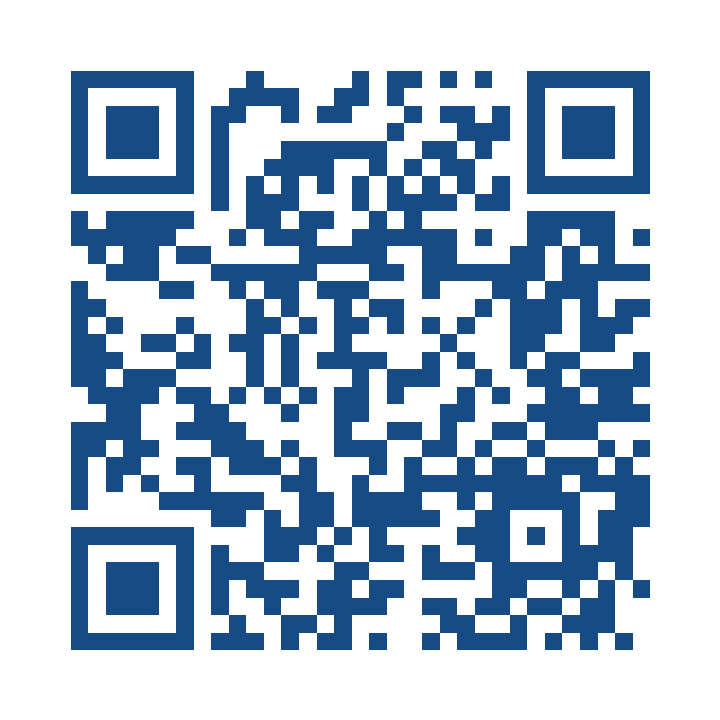
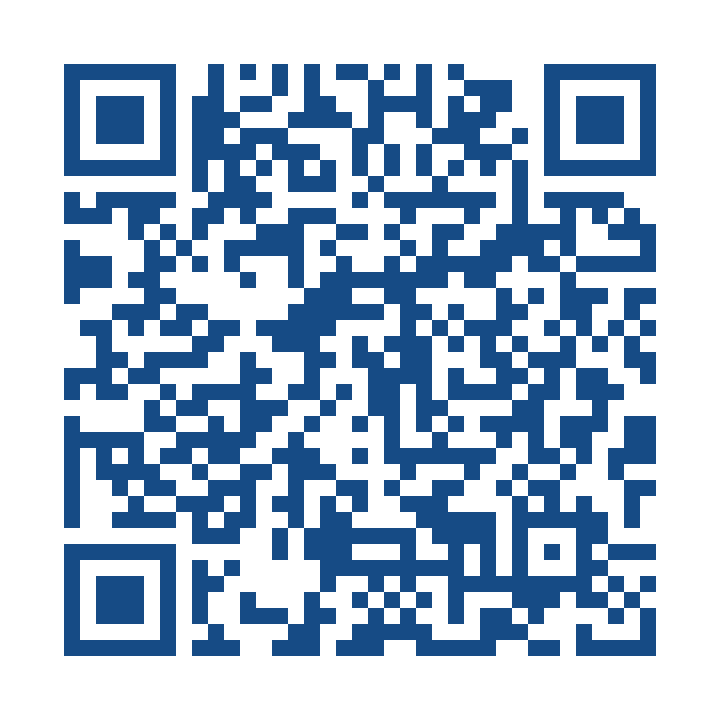
Add files via upload

diff --git a/Rebecca-Chien/index.html b/Rebecca-Chien/index.html
@@ -145,7 +145,7 @@ for(const [id,url] of Object.entries(destinations)){const element=document.getEl
 </script><script>
 function showQR(title,file,help='請使用對應 App 掃碼 / Scan with the relevant app'){document.getElementById('qrTitle').textContent=title;document.getElementById('qrImage').src='assets/'+file+'.jpg';document.getElementById('qrHelp').textContent=help;document.getElementById('qr').showModal()}
 document.getElementById('qr').addEventListener('click',e=>{if(e.target===e.currentTarget)e.currentTarget.close()});
-</script><button class="floating-share" type="button" onclick="offerShareImage()" aria-label="出示 QR Code 或分享名片 / Show QR code or share card"><svg class="share-symbol" width="25" height="25" viewBox="0 0 28 28" fill="none" aria-hidden="true"><path d="M10 12L19 7M10 16L19 21" stroke="currentColor" stroke-width="1.7" stroke-linecap="round"/><circle cx="7" cy="14" r="3.5" stroke="currentColor" stroke-width="1.7"/><circle cx="22" cy="5.5" r="3.5" stroke="currentColor" stroke-width="1.7"/><circle cx="22" cy="22.5" r="3.5" stroke="currentColor" stroke-width="1.7"/></svg><span class="floating-label">分享<span lang="en">Share</span></span></button><dialog id="share-image-dialog" aria-label="分享名片 / Share Card"><button class="share-dismiss" type="button" onclick="this.closest('dialog').close()" aria-label="關閉 / Close">×</button><img class="designed-share-image" src="assets/rebecca-share-card.png" alt="Rebecca Chien 名片 QR Code / Scan for Rebecca’s card"><div class="dialog-actions"><button class="primary" onclick="shareCard()">分享名片 QR Code<span lang="en">Share QR Card</span></button><button class="primary copy-link" onclick="shareCardLink()">分享名片連結<span lang="en">Share Card Link</span></button></div><p id="share-feedback" role="status"></p><a class="save-image" href="assets/rebecca-share-card.png" download="Rebecca-GDT-business-card.png">儲存圖片 / Save Image</a></dialog><dialog id="copy-link-dialog"><h2>名片連結 / Card Link</h2><p>請複製下方網址 / Copy the URL below</p><input id="card-link-input" aria-label="名片連結 / Card URL" readonly><p><button class="close" onclick="this.closest('dialog').close()">關閉 / Close</button></p></dialog><script>const cardPublicURL='https://gdtsyd.github.io/business-card/rebecca/';
+</script><button class="floating-share" type="button" onclick="offerShareImage()" aria-label="出示 QR Code 或分享名片 / Show QR code or share card"><svg class="share-symbol" width="25" height="25" viewBox="0 0 28 28" fill="none" aria-hidden="true"><path d="M10 12L19 7M10 16L19 21" stroke="currentColor" stroke-width="1.7" stroke-linecap="round"/><circle cx="7" cy="14" r="3.5" stroke="currentColor" stroke-width="1.7"/><circle cx="22" cy="5.5" r="3.5" stroke="currentColor" stroke-width="1.7"/><circle cx="22" cy="22.5" r="3.5" stroke="currentColor" stroke-width="1.7"/></svg><span class="floating-label">分享<span lang="en">Share</span></span></button><dialog id="share-image-dialog" aria-label="分享名片 / Share Card"><button class="share-dismiss" type="button" onclick="this.closest('dialog').close()" aria-label="關閉 / Close">×</button><img class="designed-share-image" src="assets/rebecca-share-card.png" alt="Rebecca Chien 名片 QR Code / Scan for Rebecca’s card"><div class="dialog-actions"><button class="primary" onclick="shareCard()">分享名片 QR Code<span lang="en">Share QR Card</span></button><button class="primary copy-link" onclick="shareCardLink()">分享名片連結<span lang="en">Share Card Link</span></button></div><p id="share-feedback" role="status"></p><a class="save-image" href="assets/rebecca-share-card.png" download="Rebecca-GDT-business-card.png">儲存圖片 / Save Image</a></dialog><dialog id="copy-link-dialog"><h2>名片連結 / Card Link</h2><p>請複製下方網址 / Copy the URL below</p><input id="card-link-input" aria-label="名片連結 / Card URL" readonly><p><button class="close" onclick="this.closest('dialog').close()">關閉 / Close</button></p></dialog><script>const cardPublicURL='https://gdtsyd.github.io/business-card/Rebecca-Chien/index.html';
 function offerShareImage(){const d=document.getElementById('share-image-dialog');document.getElementById('share-feedback').textContent='';if(!d.open)d.showModal()}
 async function shareCard(){
  const status=document.getElementById('notice');

diff --git a/Rebecca-Chien/share-actions.js b/Rebecca-Chien/share-actions.js
@@ -1,4 +1,4 @@
-const cardPublicURL='https://gdtsyd.github.io/business-card/rebecca/';
+const cardPublicURL='https://gdtsyd.github.io/business-card/Rebecca-Chien/index.html';
 function offerShareImage(){const d=document.getElementById('share-image-dialog');document.getElementById('share-feedback').textContent='';if(!d.open)d.showModal()}
 async function shareCard(){
  const status=document.getElementById('notice');
